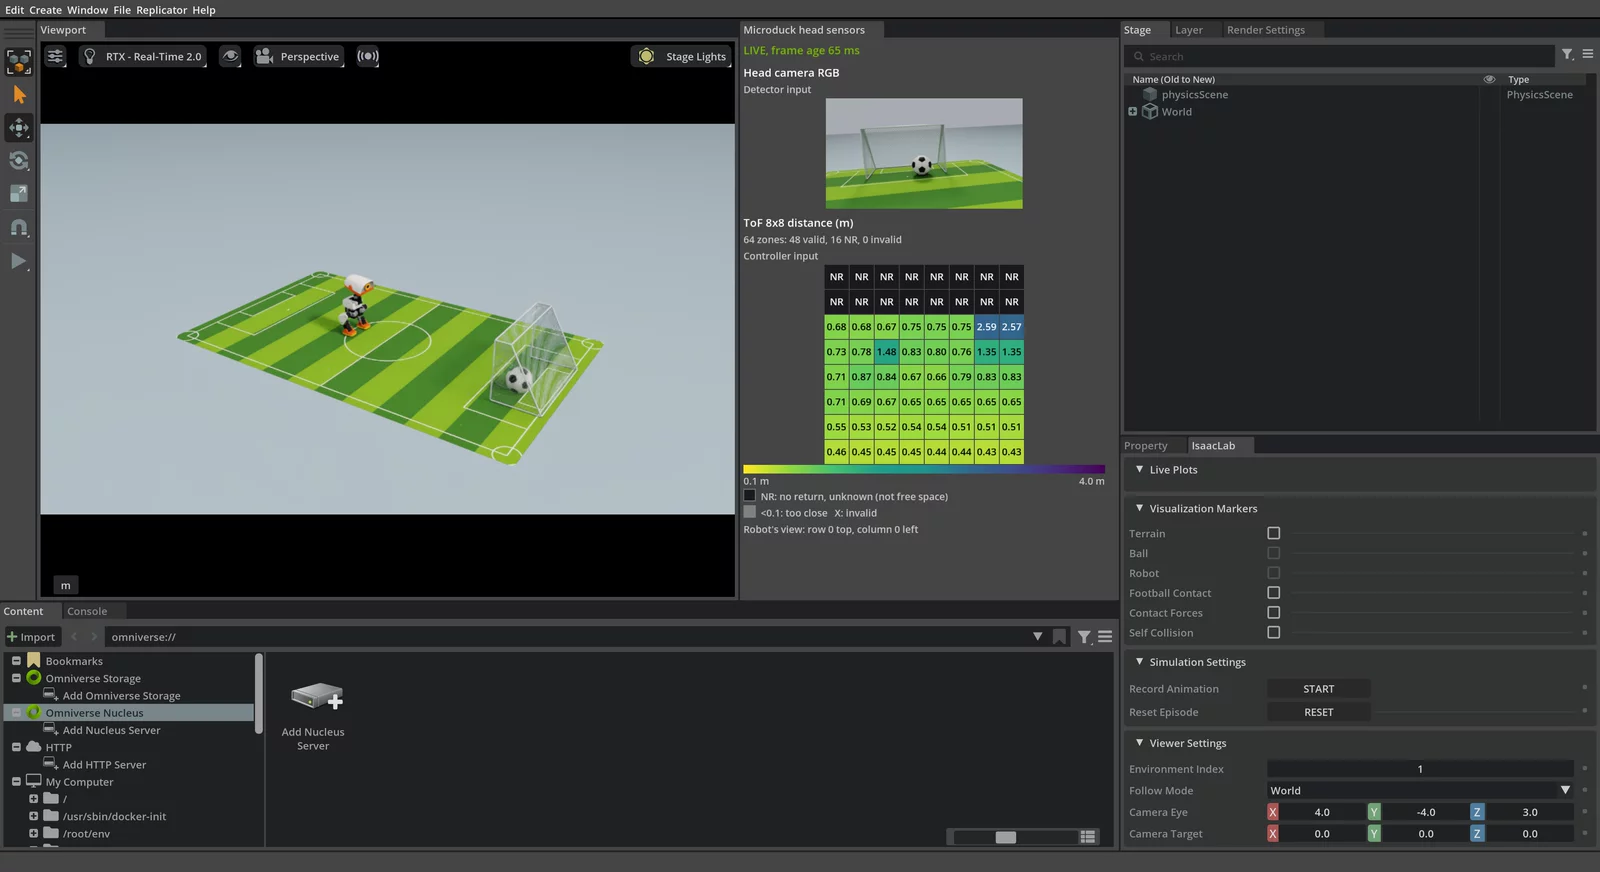
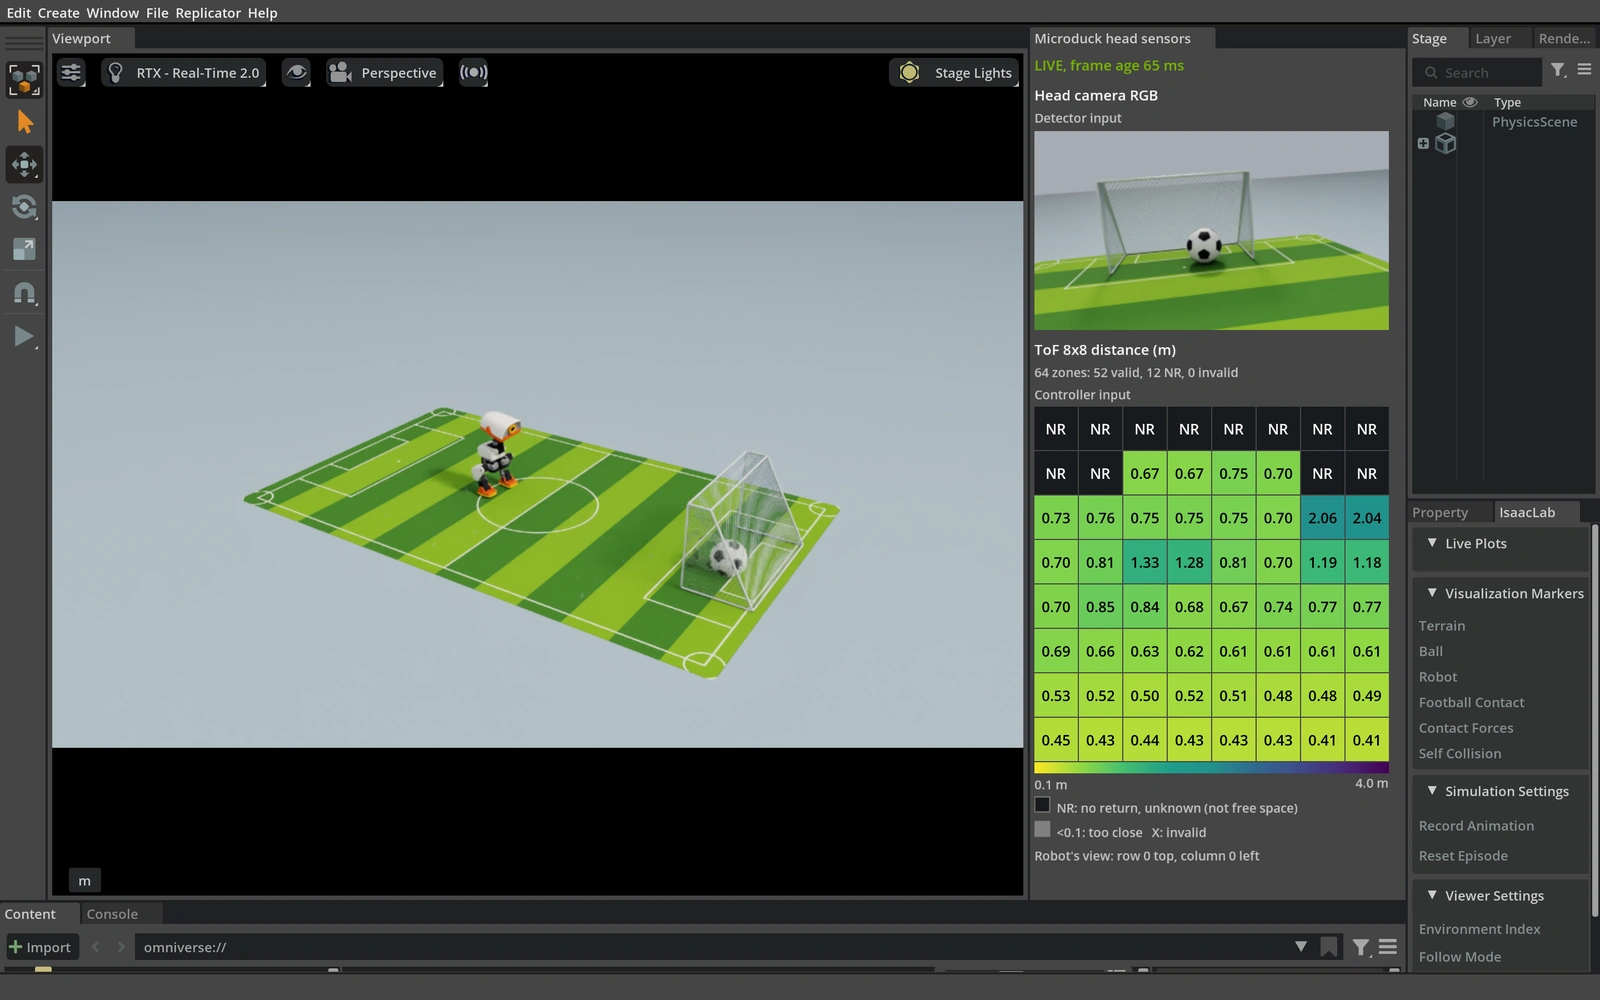
Enlarge the Isaac scene and sensor views in the homepage animation

diff --git a/web/en/index.html b/web/en/index.html
@@ -383,7 +383,7 @@
 <section class="tex2jax_ignore mathjax_ignore" id="teach-microduck-to-score-a-goal">
 <h1>1.1 Teach Microduck to score a goal<a class="headerlink" href="#teach-microduck-to-score-a-goal" title="Link to this heading">#</a></h1>
 <div class="lesson-heading is-home has-hero-animation"><div class="lesson-heading-text"><div class="lead"><p>Experience Microduck's motion, train skills with reinforcement learning, see how an onboard policy scores with sensors and hand-designed stages, then adapt GR00T with demonstrations, evaluate the walking-shot task in simulation and consider how to carry it to more environments.</p>
-</div><div class="lesson-meta">6 parts · 17 sections · Simulation and frontier methods</div></div><figure class="hero-image hero-animation"><img class="dark-light" fetchpriority="high" src="../assets/media/isaac-football-hero.webp" alt="A recording of the full Isaac window, played on the simulation clock: the onboard policy controls Microduck as it scores on the green pitch, alongside synchronized head RGB and ToF sensor views." width="1600" height="872" style="aspect-ratio: 1600 / 872"></figure></div><div class="toctree-wrapper compound">
+</div><div class="lesson-meta">6 parts · 17 sections · Simulation and frontier methods</div></div><figure class="hero-image hero-animation"><img class="dark-light" fetchpriority="high" src="../assets/media/isaac-football-hero.webp" alt="A recording of the full Isaac window, played on the simulation clock: the onboard policy controls Microduck as it scores on the green pitch, alongside synchronized head RGB and ToF sensor views." width="1600" height="1000" style="aspect-ratio: 1600 / 1000"></figure></div><div class="toctree-wrapper compound">
 </div>
 <div class="toctree-wrapper compound">
 </div>

diff --git a/web/zh/index.html b/web/zh/index.html
@@ -384,7 +384,7 @@
 <section class="tex2jax_ignore mathjax_ignore" id="microduck">
 <h1>1.1 让 Microduck 学会自主射门<a class="headerlink" href="#microduck" title="Link to this heading">#</a></h1>
 <div class="lesson-heading is-home has-hero-animation"><div class="lesson-heading-text"><div class="lead"><p>先体验 Microduck 的运动，再用强化学习训练技能，看板载策略怎样用传感器和手工设计的阶段完成射门，然后通过示范后训练 GR00T、在仿真中验证步行射门表现，并讨论怎样把它带到更多环境。</p>
-</div><div class="lesson-meta">6 个部分 · 17 节 · 仿真实践与前沿方法</div></div><figure class="hero-image hero-animation"><img class="dark-light" fetchpriority="high" src="../assets/media/isaac-football-hero.webp" alt="Isaac 完整窗口的运行录像，按仿真时间播放：板载策略控制 Microduck 在绿色球场踢球进门，旁边同步显示头部 RGB 和 ToF 传感器画面。" width="1600" height="872" style="aspect-ratio: 1600 / 872"></figure></div><div class="toctree-wrapper compound">
+</div><div class="lesson-meta">6 个部分 · 17 节 · 仿真实践与前沿方法</div></div><figure class="hero-image hero-animation"><img class="dark-light" fetchpriority="high" src="../assets/media/isaac-football-hero.webp" alt="Isaac 完整窗口的运行录像，按仿真时间播放：板载策略控制 Microduck 在绿色球场踢球进门，旁边同步显示头部 RGB 和 ToF 传感器画面。" width="1600" height="1000" style="aspect-ratio: 1600 / 1000"></figure></div><div class="toctree-wrapper compound">
 </div>
 <div class="toctree-wrapper compound">
 </div>

diff --git a/docs/en/index.md b/docs/en/index.md
@@ -12,7 +12,7 @@ myst:
 :meta: 6 parts · 17 sections · Simulation and frontier methods
 :hero: media/isaac-football-hero-still.webp
 :hero-animation: media/isaac-football-hero.webp
-:hero-size: 1600x872
+:hero-size: 1600x1000
 :hero-alt: A recording of the full Isaac window, played on the simulation clock: the onboard policy controls Microduck as it scores on the green pitch, alongside synchronized head RGB and ToF sensor views.
 
 Experience Microduck's motion, train skills with reinforcement learning, see how an onboard policy scores with sensors and hand-designed stages, then adapt GR00T with demonstrations, evaluate the walking-shot task in simulation and consider how to carry it to more environments.

diff --git a/docs/zh/index.md b/docs/zh/index.md
@@ -12,7 +12,7 @@ myst:
 :meta: 6 个部分 · 17 节 · 仿真实践与前沿方法
 :hero: media/isaac-football-hero-still.webp
 :hero-animation: media/isaac-football-hero.webp
-:hero-size: 1600x872
+:hero-size: 1600x1000
 :hero-alt: Isaac 完整窗口的运行录像，按仿真时间播放：板载策略控制 Microduck 在绿色球场踢球进门，旁边同步显示头部 RGB 和 ToF 传感器画面。
 
 先体验 Microduck 的运动，再用强化学习训练技能，看板载策略怎样用传感器和手工设计的阶段完成射门，然后通过示范后训练 GR00T、在仿真中验证步行射门表现，并讨论怎样把它带到更多环境。
